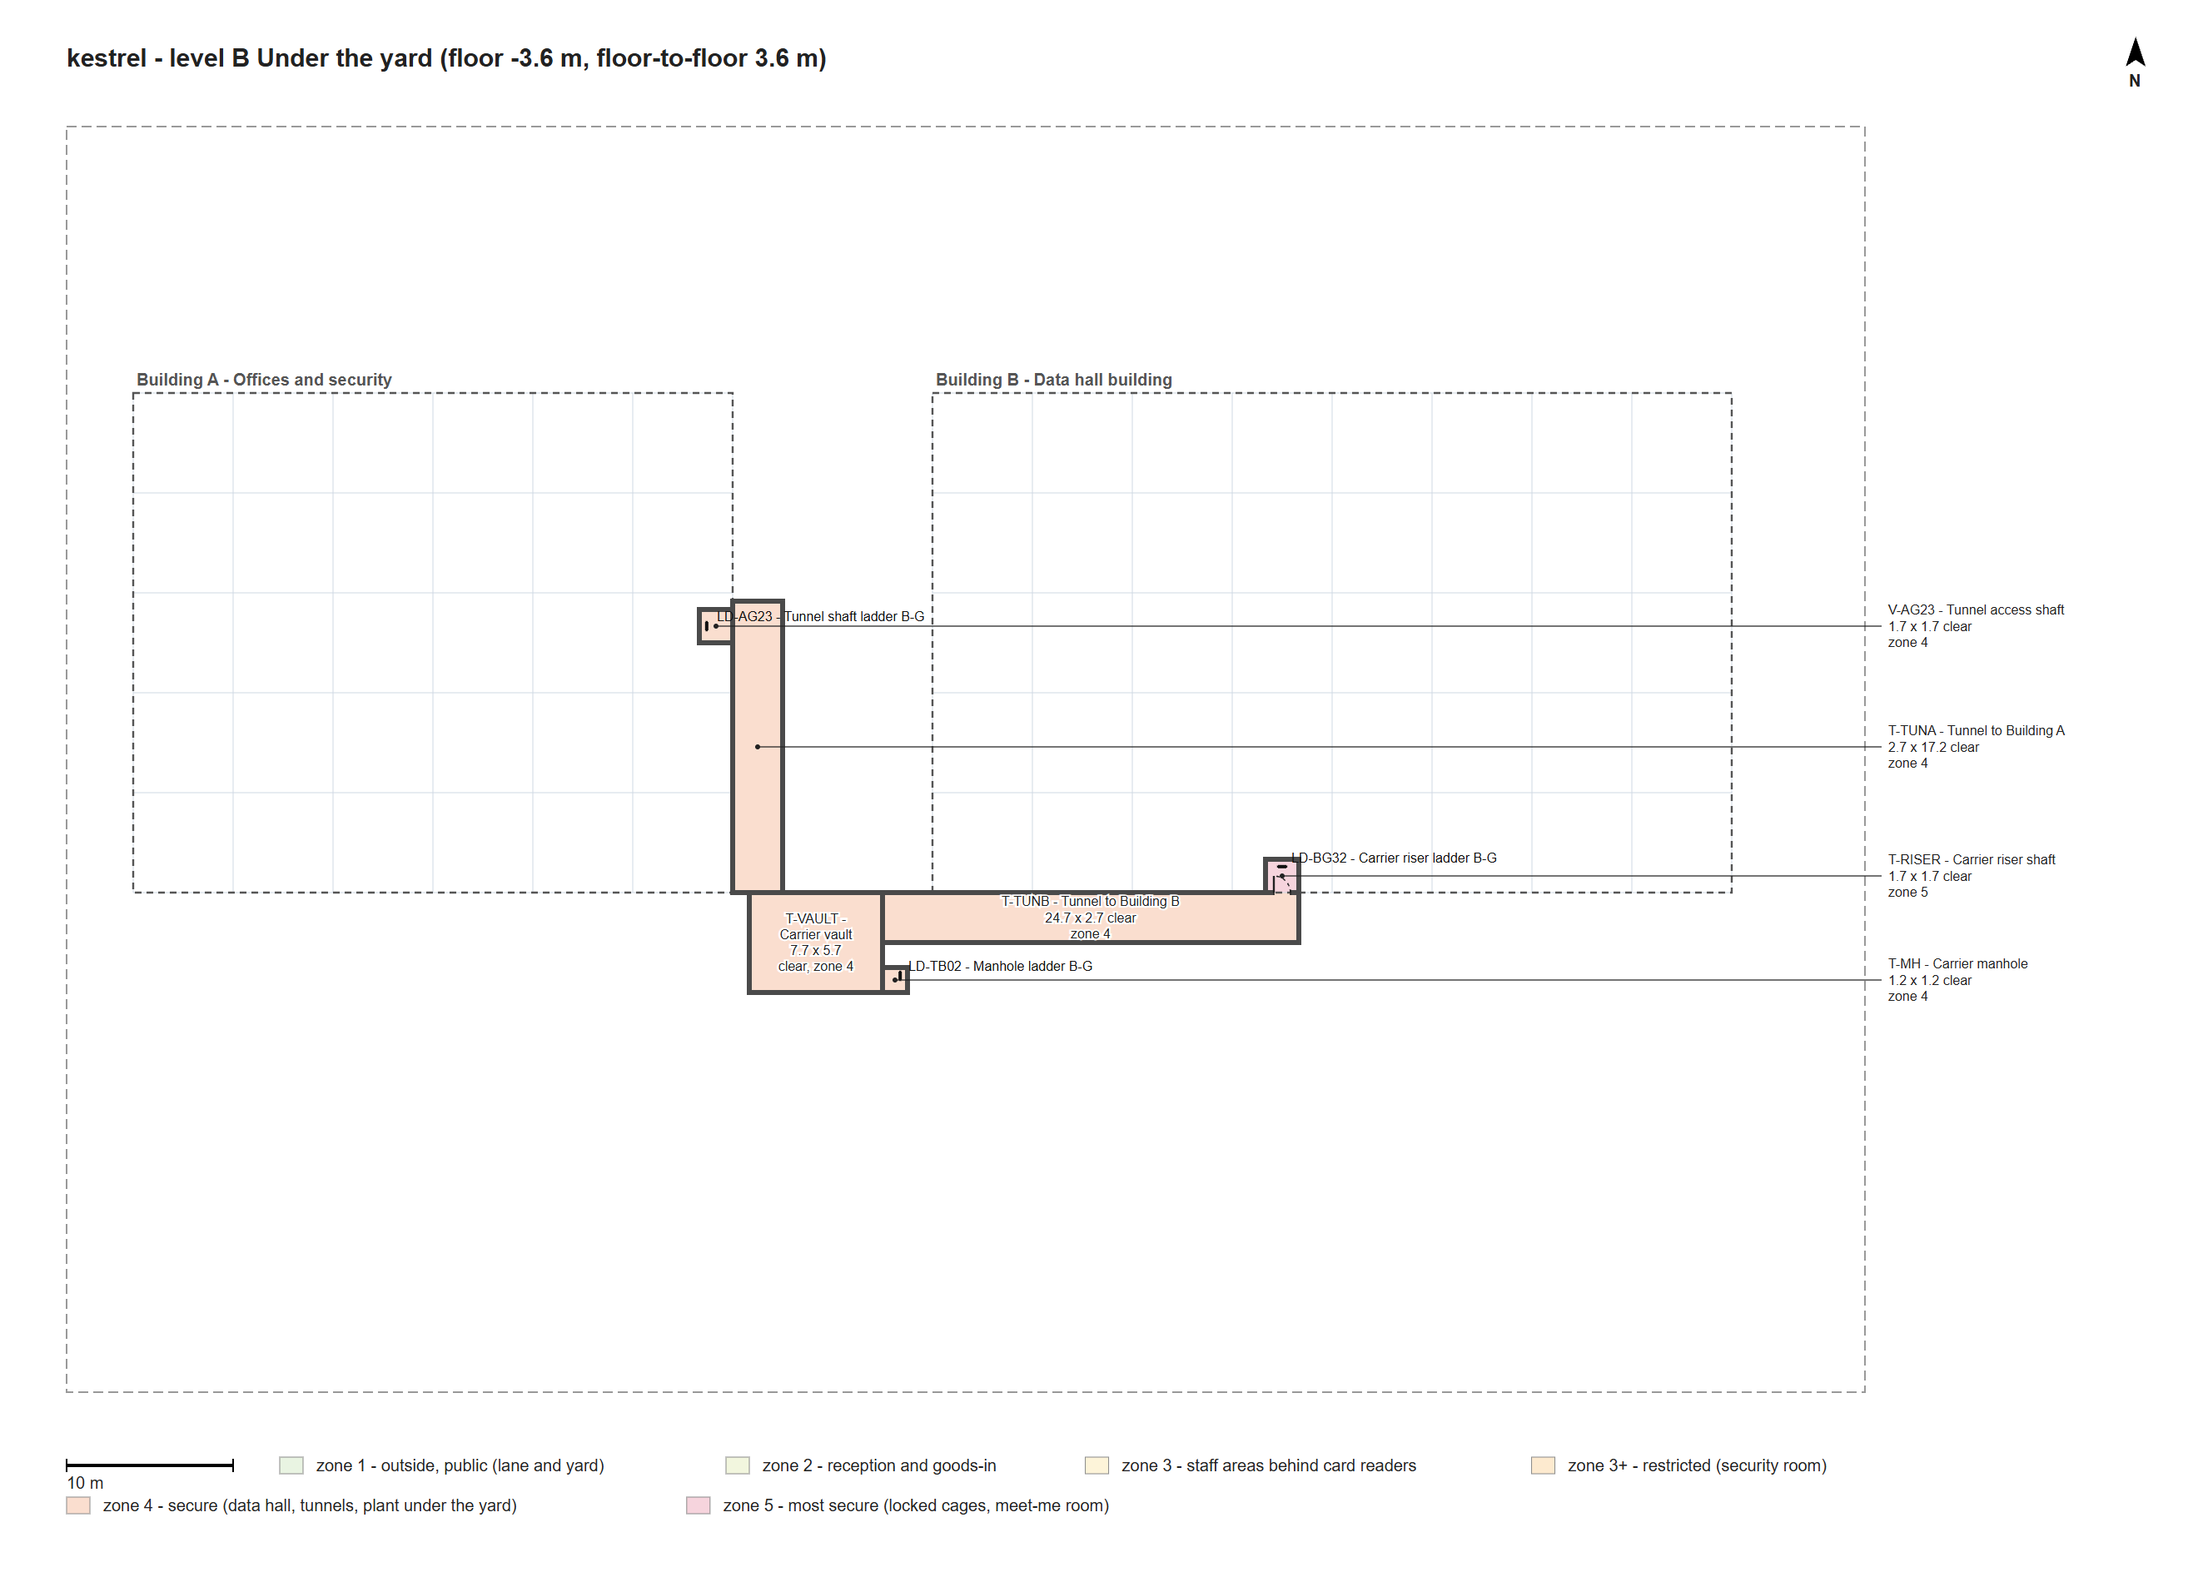
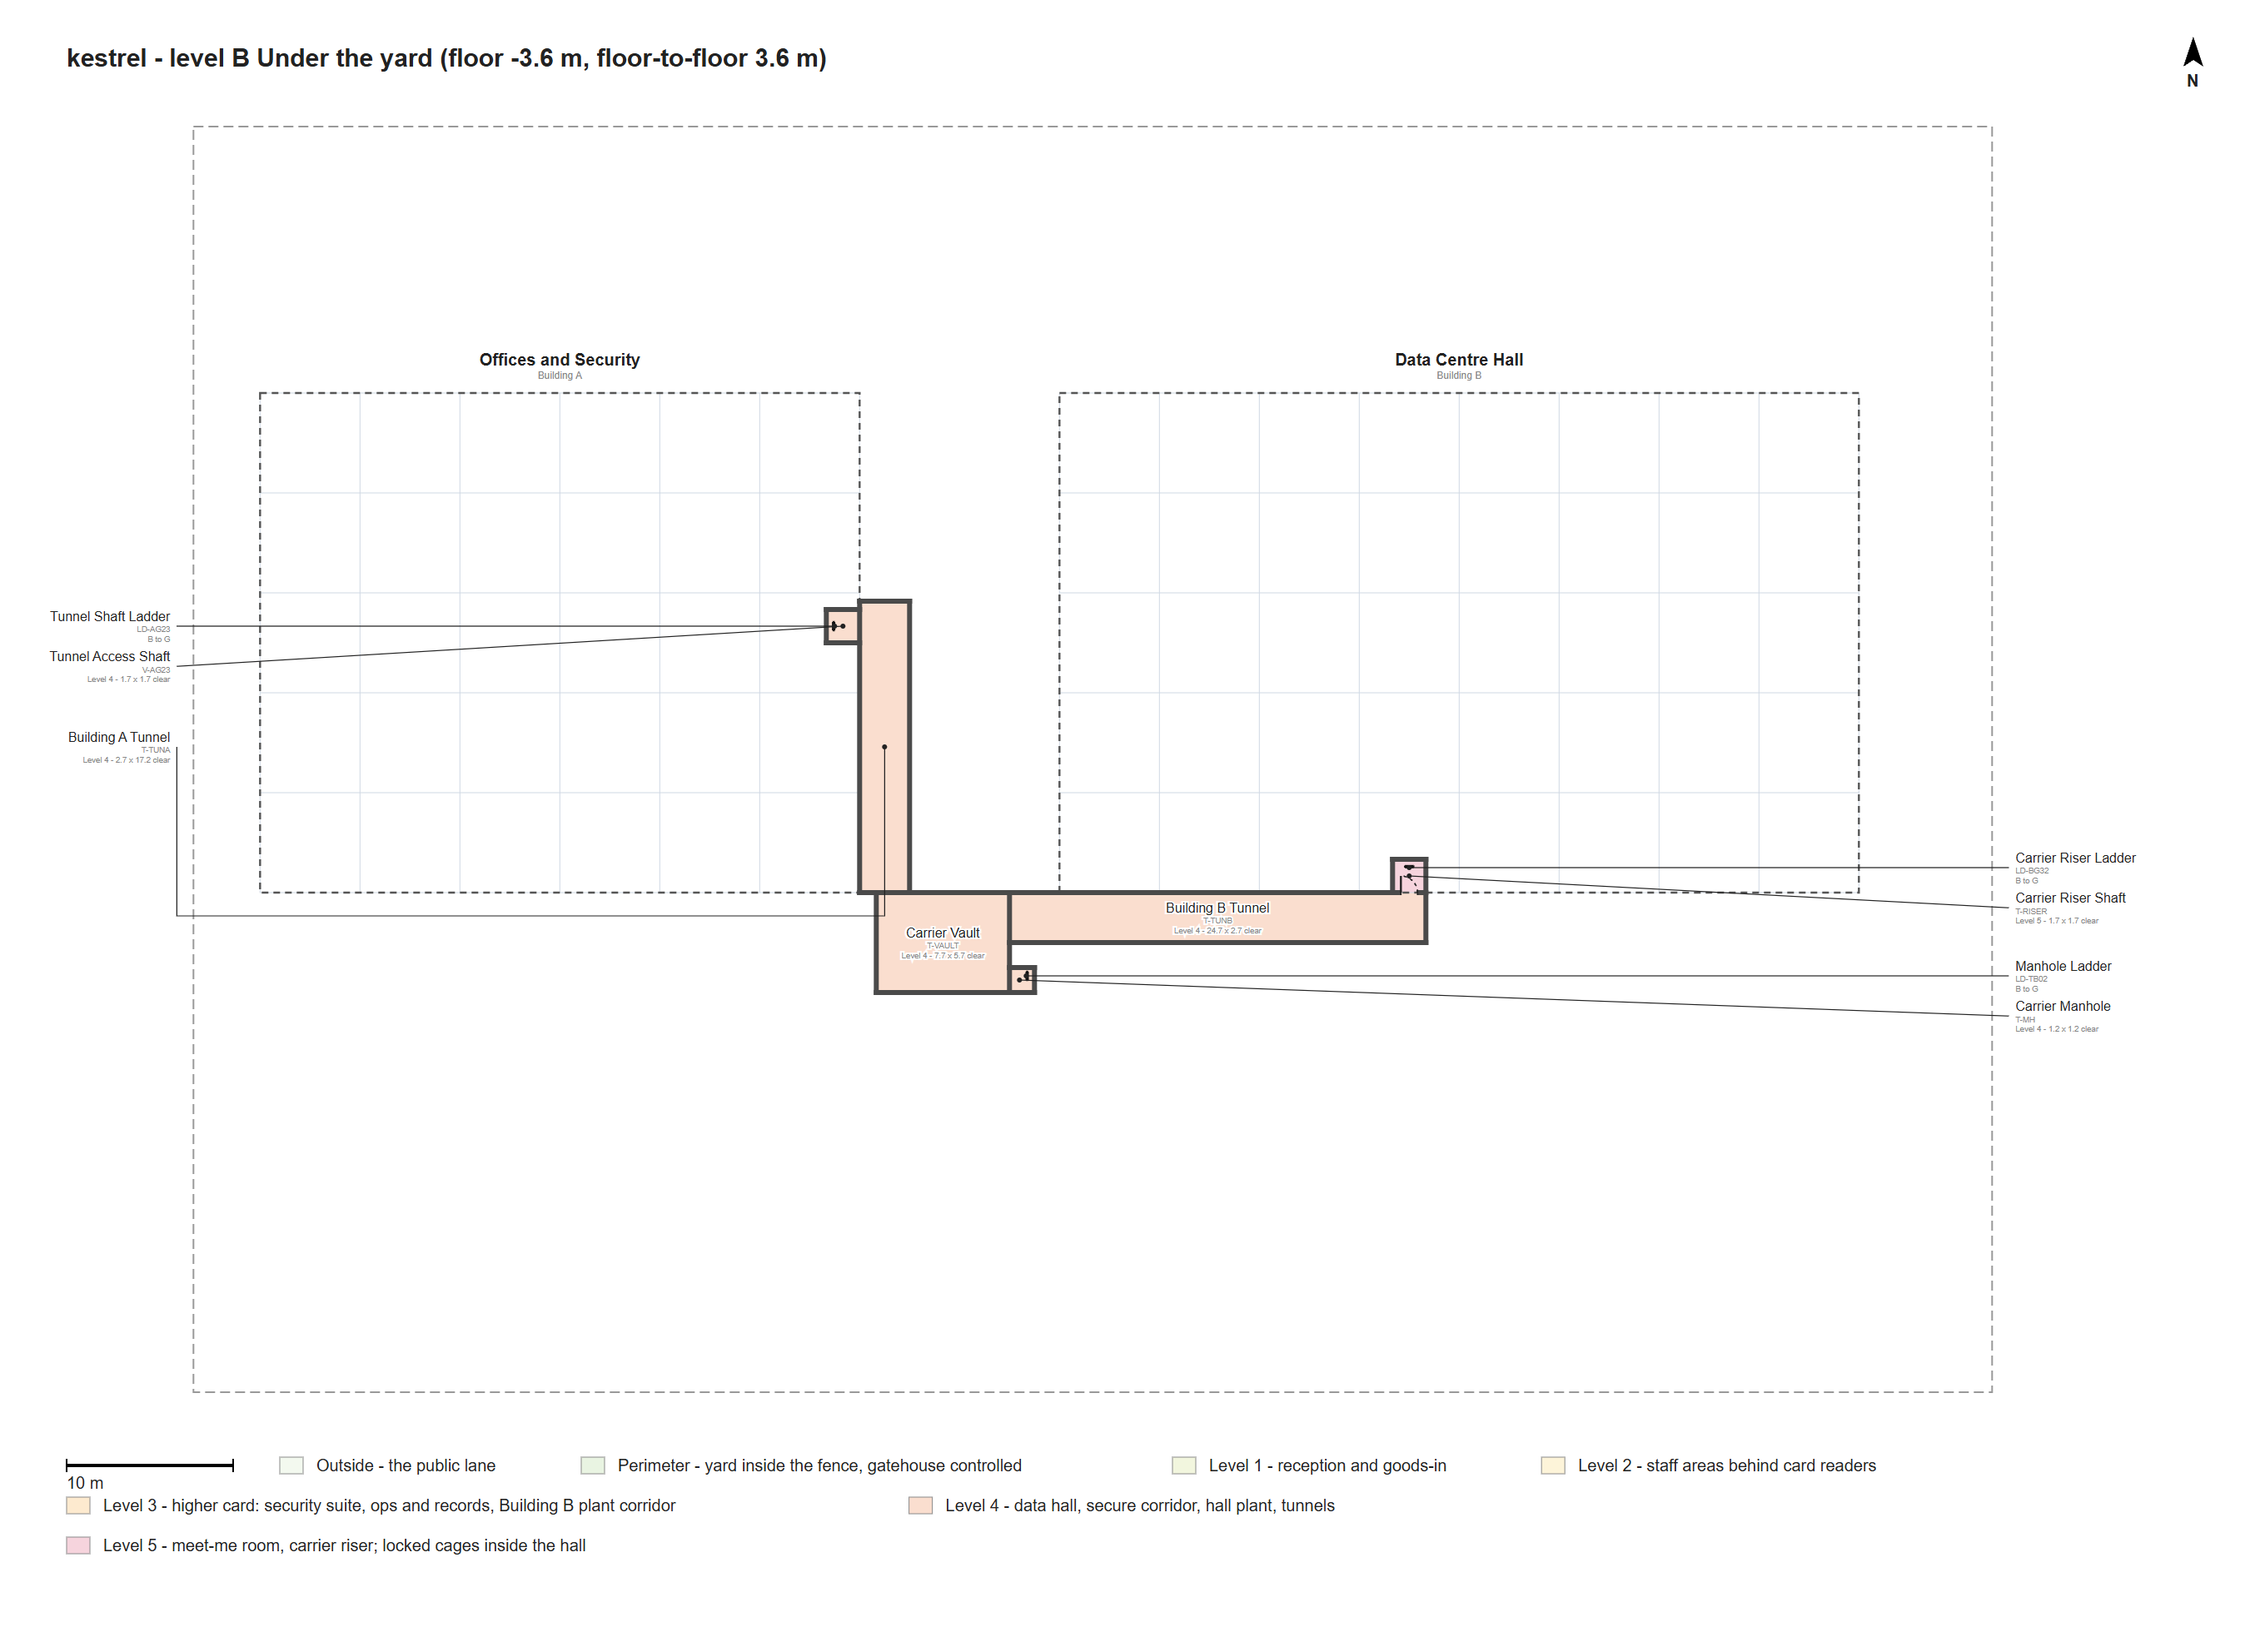
kestrel P03B 2g-2: readable labels and Title Case names

diff --git a/docs/kestrel/progress.md b/docs/kestrel/progress.md
@@ -15,7 +15,7 @@ Planning handover (decisions not yet in the briefs, stage order, working rules):
 | P02 | Building brief | APPROVED (levels revision) | 852d3ab | 2026-10-11 |
 | P03 | Tools | APPROVED | 81e50aa | 2026-10-10 |
 | P03T | Campus tools (two buildings) | APPROVED | f097ce1 | 2026-10-11 |
-| P03B | Block plan | DRAFT (Part 2 done, awaiting approval) | 6fc46dd | 2026-10-11 |
+| P03B | Block plan | DRAFT (Part 2 done, awaiting approval) | HASH | 2026-10-11 |
 | HK | Housekeeping | NOT STARTED | | |
 | P03R | Campus review | not started | | |
 | B0 | Massing walk | to rerun (campus) | 57aaf6c | 2026-10-11 |
@@ -47,6 +47,7 @@ Planning handover (decisions not yet in the briefs, stage order, working rules):
 | P11 | Playtest triage | not started | | |
 
 ## Log (newest first)
+- 2026-10-11 P03B 2g-2: readable labels and Title Case names. All 118 names plain Title Case, no abbreviations, unique, at most 30 characters (pieces take a compass word, Strip for one thin roof piece); plans.mjs has one obstacle test for room, stair, ladder, void and building labels, name over a small grey id and tag, west and east callout columns with a bend round the other building, level legend in access levels; labels overlaps 0 on all 7 levels. Data unchanged apart from names; all check lines as 2g-1. Minor: on the roof plan the east callout leaders cross the small Building B roof label.
 - 2026-10-11 P03B 2g-1: access levels in the data and tools. Zone `ring` values now 0-5 (0 Perimeter; the lane is also 0), no "3+"; level-3 zones G-SEC, F-OPS, F-BW, F-PLANT, F-E, B-GN; S-COMP Perimeter; RB09 key-only (exempt count 9). check.mjs A28/A29 plain step; modules, sample.arch, schema, tests, ring check F, plans.mjs tints and tags updated (also expand.test.mjs, 5 ring asserts, and the modules `category` text). Zone counts {0:20,1:3,2:45,3:6,4:11,5:2}; check.mjs campus 22 PASS, 2 WARN, 4 FAIL (A29 RB01 only), samples equal baselines (28 PASS; layout A01 FAIL as before); tests 8, 61, 30 pass; checks A-G and path unchanged. Deviation: RA16 and RB16 (key hatch, key grille, Level 2 to 4) marked exempt (key) in 03B 7, else ring check F failed; mixed modules (office, storage, comms-room, riser-cupboard, plant-corridor) keep the plain mapping, only mantrap and control-room are 3. Negative test G-SEC 4: A29 fails RA07, RB01. Plans re-rendered to scratch only.
 - 2026-10-11 REV-levels: 02 section 5 level column (126 rows: O 1, P 12, 1: 8, 2: 66, 3: 14, 4: 19, 5: 6), section 6 (levels table, card model, door signs, controls with level and building) and tail lines; 01 roster (21 guards, dog handler row, dogs line), cards, beats, level line; S0 2.3 reader `accessLevel` and `building`, cards `building` and `level` (replaces `opens`). Michael's fixes applied: dog handler 1 is the perimeter patrol plus a contracted handler; B first floor Level 2, mantrap outer door first Level 3; X09 and X13 Perimeter. Deviations: column heading "Access level" (a floor "Level" column exists); reader field `accessLevel` (device `level` is the floor). AF11 Level 3 (only door off AF10). P01, P02, S0 DRAFT (levels revision). No ASKs.
 - 2026-10-11 Planner: Michael's review of the 2f plans recorded (Decisions by Michael: labels, names, codes, access levels, per-building cards, door signs, two dog teams). Planner prototype of the levels (old 1 to 0 perimeter, 2 to 1, 3 to 2, 3+ to 3, plus G-SEC, F-OPS, F-BW, F-PLANT, F-E, B-GN at 3; A29 one plain step): campus check.mjs 22 PASS, 2 WARN, 4 FAIL, 8 SKIP, 1 INFO unchanged, A29 fails RB01 only; zone counts 0:19, 1:3, 2:46, 3:6, 4:11, 5:2; negative test G-SEC 4 fails RA07. Prompts written: REV-levels.md (15 decisions), P03B-2g-1.md (13), P03B-2g-2.md (12). RULES 2 guards and doors lines updated.

diff --git a/docs/kestrel/schema.md b/docs/kestrel/schema.md
@@ -57,7 +57,7 @@ Three JSON files describe the map before any code: `kestrel.arch.json` (the buil
 | levels[].height | Floor-to-floor height of that level |
 | levels[].footprint | Optional. One rect `[x0, z0, x1, z1]` or a list of rects the level must be fully built over, every cell of every rect (A14). With `meta.buildings` each rect is inside the site; without, inside `meta.footprint` (A21). Default: every building footprint (`meta.footprint` for a file with no buildings). Use it when a level covers only part of the campus (the first floor over the strips and the link bridge, `H` over the hall block) |
 | rooms[].id, level | Unique room id and its level |
-| rooms[].name | Name used on the plan label |
+| rooms[].name | Name used on the plan label. Plain words in Title Case, no abbreviations (2g-2) |
 | rooms[].kind | What the space is; `ladder` is allowed only in `plant` or `shaft` rooms |
 | rooms[].rect | Wall-centreline rectangle |
 | rooms[].ceiling, finish | Ceiling height and floor finish (gravel, linoleum, carpet; level-design 16.8.3) |
@@ -99,7 +99,7 @@ Three JSON files describe the map before any code: `kestrel.arch.json` (the buil
 | voids[].id, level | Unique id and the level whose floor has the hole |
 | voids[].rect, kind | Hole rect, and what it is (well, shaft, riser, hatch, roof light) |
 | voids[].reason | Why the floor is open here (level-design 16.3.2) |
-| stairs[].name, ladders[].name, voids[].name | Optional. Short plain name for the plan label (Michael, 2026-10-11) |
+| stairs[].name, ladders[].name, voids[].name | Optional. Short plain name for the plan label, Title Case, no abbreviations (Michael, 2026-10-11; 2g-2) |
 | objects[].id, level | Unique id and level |
 | objects[].name | The real object (rack, transformer, skip) |
 | objects[].rect | Footprint on the 0.1 m grid |

diff --git a/docs/kestrel/03B-block-plan.md b/docs/kestrel/03B-block-plan.md
@@ -593,6 +593,7 @@ Rows per For: Michael 0, P03R 13, P04 13, P06 1.
 | 15 | ring-exempt openings in the JSON (2g-1) | 9: RA13 RB07 RB08 RB09 RB10 RB11 RB13 RB14 RB15 (RB09 added: key-only wing double doors) |
 
 Plans: docs/kestrel/plans/blocks-<L>.png for B, U, G, F, H, L, R (Part 2e)
+Part 2g-2 (Michael, 2026-10-11): Title Case plain names, name over a small grey id, one label each, nearest-side callouts, legend in access levels; overlaps 0 on all 7 levels.
 Part 2g-1 (Michael, 2026-10-11): zones are access levels 0-5 (0 Perimeter); S-COMP is Perimeter; G-SEC, F-OPS, F-BW, F-PLANT, F-E and B-GN are Level 3; RA16 and RB16 (key hatch and key grille, Level 2 to 4) marked exempt (key). Checks 1-13 unchanged.
 Part 2f (Michael, 2026-10-11): plain names on every zone, site piece, tunnel, roof and vertical piece; worded zone legend; checks unchanged.
 

diff --git a/docs/kestrel/lessons.md b/docs/kestrel/lessons.md
@@ -42,3 +42,4 @@ Collected stage by stage; turned into the map template at P11 (Michael, 2026-10-
 - Plans need plain names from the first render; ids alone are unreadable to the person approving.
 - Security levels should be set as numbered access levels with a card model (building and level) in the first brief, not as zones.
 - A value format the tools check (here the zone level) should be fixed before the first generator runs, so a format change does not touch every generator, test and table.
+- Plan labels need one obstacle test for every label kind and an overlap count from the first render.
